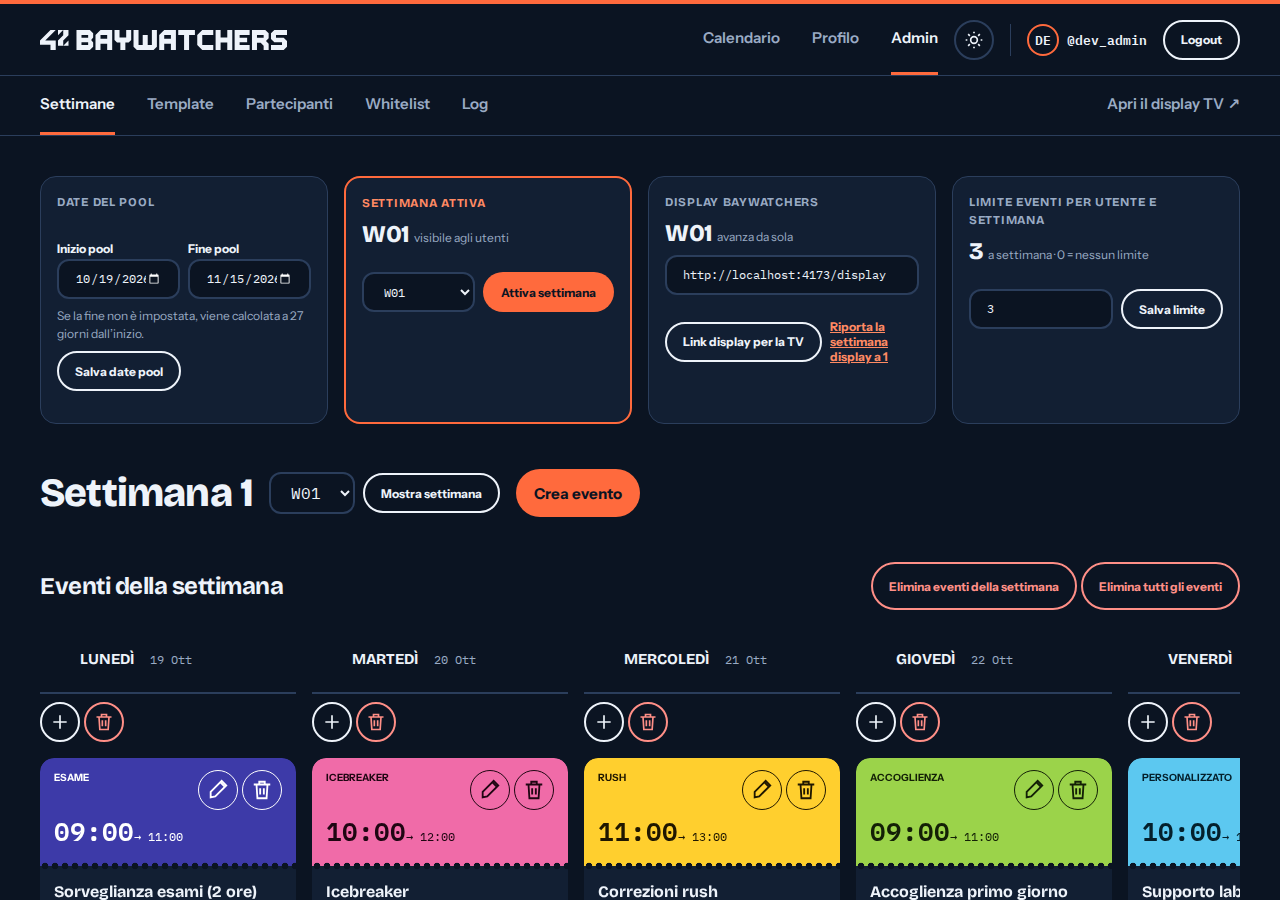
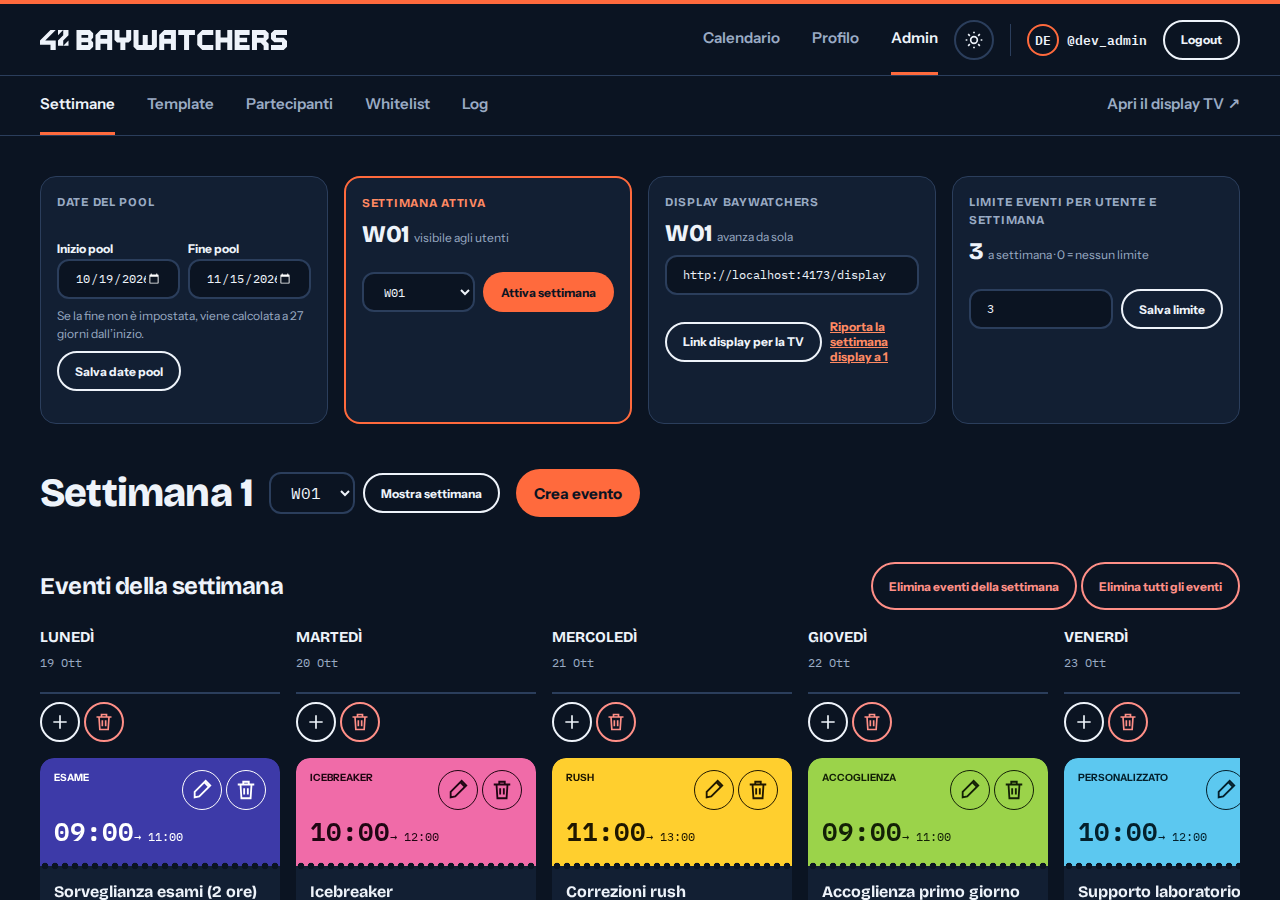
fix(design): address M14 review findings

diff --git a/tests/e2e/events.test.ts b/tests/e2e/events.test.ts
@@ -144,14 +144,14 @@ test(
 			});
 			const otherWeeks = await client`SELECT id FROM events WHERE week<>4 ORDER BY id`;
 			const tuesday = page.getByRole('group', { name: 'Martedì', exact: true });
-			await tuesday.getByRole('button', { name: 'Crea evento', exact: true }).click();
+			await tuesday.getByRole('button', { name: 'Crea evento per Martedì', exact: true }).click();
 			await expect(
 				page
 					.getByRole('dialog', { name: 'Crea evento', exact: true })
 					.getByLabel('Giorno', { exact: true })
 			).toHaveValue('2');
 			await page.getByRole('dialog').getByRole('button', { name: 'Annulla', exact: true }).click();
-			await tuesday.getByRole('button', { name: 'Elimina eventi del giorno', exact: true }).click();
+			await tuesday.getByRole('button', { name: 'Elimina eventi di Martedì', exact: true }).click();
 			await page.getByRole('dialog').getByRole('button', { name: 'Conferma eliminazione' }).click();
 			expect(
 				(await client`SELECT count(*)::int AS n FROM events WHERE week=4 AND weekday=2`)[0].n
@@ -231,6 +231,44 @@ test(
 		} finally {
 			await client`DELETE FROM events WHERE title=${title}`;
 			await context.close();
+		}
+	}
+);
+
+test(
+	'keeps errors and warnings after seven seconds while successes expire',
+	{ tag: '@shared-db' },
+	async ({ page }) => {
+		const title = `toast_${randomUUID().slice(0, 8)}`;
+		try {
+			await login(page.request);
+			await page.clock.install();
+			await page.goto('/admin?week=4');
+			await create(page, '');
+			const alert = page.getByRole('alert');
+			await expect(alert).toContainText('Dati non validi');
+			await page.clock.fastForward(7000);
+			await expect(alert).toBeVisible();
+			await alert.getByRole('button', { name: 'Chiudi messaggio', exact: true }).click();
+			await expect(alert).toHaveCount(0);
+
+			await page.goto('/admin/whitelist');
+			await page.getByLabel('Login da aggiungere').fill('dev_admin');
+			await page.getByRole('button', { name: 'Aggiungi alla whitelist', exact: true }).click();
+			const warning = page.getByRole('status').filter({ hasText: 'Già presenti:' });
+			await expect(warning).toBeVisible();
+			await page.clock.fastForward(7000);
+			await expect(warning).toBeVisible();
+
+			await page.goto('/admin?week=4');
+			await expect(page.getByRole('status')).toHaveCount(0);
+			await create(page, title);
+			await expect(page.getByRole('status')).toContainText('Evento creato');
+			await page.clock.fastForward(7000);
+			await expect(page.getByRole('status')).toHaveCount(0);
+		} finally {
+			await client`DELETE FROM action_logs WHERE resource_type='event' AND resource_id IN (SELECT id::text FROM events WHERE title=${title})`;
+			await client`DELETE FROM events WHERE title=${title}`;
 		}
 	}
 );

diff --git a/tests/e2e/design.test.ts b/tests/e2e/design.test.ts
@@ -37,7 +37,7 @@ test(
 				await page.setViewportSize({ width, height: 900 });
 				await page.goto('/');
 				// The landing is captured before authentication; later iterations use a fresh logged-out session.
-				const capture = async (name: string) => {
+				const capture = async (name: string, captureWidth = width) => {
 					await page.evaluate(() => {
 						window.scrollTo(0, 0);
 						return document.fonts.ready;
@@ -49,7 +49,7 @@ test(
 					).toBe(true);
 					// Playwright screenshots inject a style element that WebKit reports as a CSP violation.
 					if (browserName === 'webkit') return;
-					const filename = `${width}-${name}.png`;
+					const filename = `${captureWidth}-${name}.png`;
 					const location =
 						process.env.UPDATE_DESIGN_SCREENSHOTS === '1'
 							? path.join('docs/v2/design/implemented', theme, filename)
@@ -88,6 +88,44 @@ test(
 						}
 					}
 					await capture(name);
+					if (route === '/admin' && width === 1280) {
+						const grid = page.locator('.days-grid');
+						expect(
+							await grid.evaluate((element) => element.scrollWidth > element.clientWidth)
+						).toBe(true);
+						const rowsFit = await page.locator('.days-grid .ticket-body li').evaluateAll((rows) =>
+							rows.every((row) => {
+								const bounds = row.getBoundingClientRect();
+								return [...row.children].every((child) => {
+									const box = child.getBoundingClientRect();
+									return box.left >= bounds.left - 1 && box.right <= bounds.right + 1;
+								});
+							})
+						);
+						expect(rowsFit).toBe(true);
+						expect(
+							await page
+								.locator('.day-heading')
+								.evaluateAll((headers) =>
+									headers.every(
+										(header) =>
+											Math.abs(
+												header.getBoundingClientRect().left -
+													header.querySelector('h3')!.getBoundingClientRect().left
+											) < 1
+									)
+								)
+						).toBe(true);
+						await page.setViewportSize({ width: 1920, height: 900 });
+						// Screenshot animation cleanup can leave empty style attributes; capture a fresh document.
+						await page.reload();
+						expect(
+							await grid.evaluate((element) => element.scrollWidth === element.clientWidth)
+						).toBe(true);
+						await expect(page.locator('.day-group')).toHaveCount(7);
+						await capture(name, 1920);
+						await page.setViewportSize({ width, height: 900 });
+					}
 				}
 				await page.request.post('/auth/logout', {
 					headers: { origin: 'http://localhost:4173' },

diff --git a/src/routes/admin/+page.svelte b/src/routes/admin/+page.svelte
@@ -282,10 +282,18 @@
 						<span class="day-date">{data.dayDates[index] ?? m.admin_dates_unset()}</span>
 					</header>
 					<div class="day-actions">
-						<Dialog label={m.admin_create_event()} title={m.admin_create_event()} icon="add">
+						<Dialog
+							label={m.admin_create_event_day({ day: day() })}
+							title={m.admin_create_event()}
+							icon="add"
+						>
 							{@render createEventForm(`create-day-${index + 1}`, index + 1)}
 						</Dialog>
-						<Dialog label={m.admin_delete_day()} title={m.admin_confirm_delete_day()} icon="delete">
+						<Dialog
+							label={m.admin_delete_day_named({ day: day() })}
+							title={m.admin_confirm_delete_day()}
+							icon="delete"
+						>
 							{@render confirmDelete('deleteDayEvents', { week: data.week, weekday: index + 1 })}
 						</Dialog>
 					</div>
@@ -542,7 +550,7 @@
 	}
 	.days-grid {
 		display: grid;
-		grid-template-columns: repeat(7, minmax(var(--calendar-day-width), 1fr));
+		grid-template-columns: repeat(7, minmax(var(--admin-day-width), 1fr));
 		gap: var(--space-md);
 		overflow-x: auto;
 	}

diff --git a/src/routes/+layout.svelte b/src/routes/+layout.svelte
@@ -22,7 +22,7 @@
 <svelte:head><link rel="icon" href={asset('badge.png')} /></svelte:head>
 {#if page.route.id !== '/display'}
 	<a class="skip-link" href="#main">{m.app_skip_to_content()}</a>
-	<header class:access={page.route.id === '/'}>
+	<header class="site-header" class:access={page.route.id === '/'}>
 		<a class="brand" href={resolve('/')}><Logo /></a>
 
 		{#if data.user}
@@ -102,16 +102,16 @@
 	id="main"
 	class:authenticated={!!data.user}
 	class:display={page.route.id === '/display'}
-	class:calendar={page.route.id === '/calendar'}
+	class:calendar={page.route.id === '/calendar' || page.route.id === '/admin'}
 >
 	{#if page.route.id !== '/display'}<Toast {messages} />{/if}{@render children()}
 </main>
 
 <style>
-	header.access {
+	.site-header.access {
 		border-bottom: 0;
 	}
-	header.access .brand {
+	.site-header.access .brand {
 		visibility: hidden;
 	}
 	main.display,
@@ -184,7 +184,7 @@
 		.identity > span:last-child {
 			display: none;
 		}
-		header {
+		.site-header {
 			padding-inline: var(--space-md);
 			gap: var(--space-sm);
 		}

diff --git a/src/lib/styles/tokens.css b/src/lib/styles/tokens.css
@@ -75,6 +75,7 @@
 	--brand-bar: 4px; /* orange line at the top of every page */
 	--content-width: 85rem; /* 1360px */
 	--calendar-day-width: 16rem;
+	--admin-day-width: 15rem; /* 240px: seven admin columns fit at 1920 */
 	--logo-size: 20px; /* horizontal logo height in the header */
 	--profile-image-size: 3.5rem; /* 56px avatar in the profile aside */
 	--profile-aside-width: 17rem;

diff --git a/src/lib/styles/base.css b/src/lib/styles/base.css
@@ -59,7 +59,7 @@ a {
 .skip-link:focus {
 	transform: translateY(0);
 }
-header {
+.site-header {
 	display: flex;
 	align-items: center;
 	gap: var(--space-md);
@@ -199,7 +199,7 @@ pre {
 	main {
 		padding: var(--space-lg) var(--space-md);
 	}
-	header {
+	.site-header {
 		min-height: var(--header-mobile-height);
 		padding-inline: var(--space-md);
 		flex-wrap: nowrap;

diff --git a/src/lib/components/Toast.svelte b/src/lib/components/Toast.svelte
@@ -32,8 +32,10 @@
 	$effect(() => {
 		closed = [];
 		expired = messages.length === 0;
-		const timer = setTimeout(() => (expired = true), 6000);
-		return () => clearTimeout(timer);
+		if (messages.every((message) => message.type === 'success')) {
+			const timer = setTimeout(() => (expired = true), 6000);
+			return () => clearTimeout(timer);
+		}
 	});
 </script>
 

diff --git a/src/routes/admin/templates/+page.svelte b/src/routes/admin/templates/+page.svelte
@@ -153,11 +153,6 @@
 		justify-content: space-between;
 		align-items: start;
 		gap: var(--space-sm);
-		/* reset the global page header bar */
-		padding: 0;
-		min-height: 0;
-		background: none;
-		border: 0;
 	}
 	article h2 {
 		margin: 0;

diff --git a/docs/v2/SESSIONS.md b/docs/v2/SESSIONS.md
@@ -2019,3 +2019,25 @@ Spazio per istruzioni o risposte di Ismail all'agent (conferme di decisioni, pri
 
 **Prossimo passo**
 - Attendere indicazioni di Ismail per M15. Nessuna eliminazione della cartella legacy senza conferma scritta.
+
+
+## 2026-10-23 — M14 post-review — correzioni completate, verifica CI dopo il push
+
+**Fatto**
+- Calendario a tutta larghezza anche per la sola pagina /admin. Variante autorizzata: nuovo token --admin-day-width: 15rem (240 px) per le sette colonne admin; --calendar-day-width e calendario utenti invariati. Sette giorni senza scorrimento a 1920 px; a 1280 scorrimento soltanto dentro days-grid, righe dei partecipanti contenute nelle card.
+- Header globale circoscritto a site-header, incluse regole responsive/accesso; rimosso il reset superfluo dalle card template. Intestazioni dei giorni allineate alle colonne.
+- Toast: timer di 6 secondi soltanto se tutti i messaggi sono successi; errori e avvisi persistono fino alla chiusura o navigazione. Nuovo e2e con page.clock verifica permanenza dopo 7 secondi, chiusura, navigazione e scadenza dei successi.
+- Nomi accessibili distinti per giorno tramite admin_create_event_day e admin_delete_day_named; pulsante principale e titoli dei dialog invariati, selettori e2e aggiornati per Martedì.
+- Eliminati i file locali non tracciati M14-RIPRESA-TEMP.md e w.png. Nessuna modifica a query, action, dipendenze, migrazioni, legacy o Stato dei moduli; M15 non iniziato.
+
+**Controlli**
+- corepack pnpm ci:local exit 0: 186 unit, 277 integration e 124 e2e (587 totali); lint/check/build verdi, check zero errori e warning. Chromium desktop/mobile e WebKit verdi, inclusi layout, dialog con/senza JS e nuovi controlli sui messaggi.
+- Galleria rigenerata, test 1/1 verde: 62 immagini nei due temi, comprese admin a 1920 px. Header del sito pixel-identico a 360/768/1280 nei due temi; sei immagini template byte-identiche a e64f3fd. Verificati assenza di overflow della pagina, intestazioni allineate e contenimento dei partecipanti nelle colonne da 240 px.
+- git diff --check verde; immagine Docker ricostruita, stack completo su 8080/8443 con app/Postgres healthy. Smoke con CA locale: landing/health 200, admin anonimo 303, redirect HTTP 308 con percorso/query preservati; nessun volume eliminato.
+- CI GitHub: da verificare dopo il push dell'unico commit richiesto, tramite gh run watch --exit-status; esito nel rapporto finale e nella run associata al commit.
+
+**Domande / blocchi**
+- Nessuno. L'unica variante rispetto alle istruzioni iniziali, colonne admin da 240 px, è stata autorizzata esplicitamente prima di applicarla.
+
+**Prossimo passo**
+- Verificare tutti i sei job CI dopo il push e fermarsi; stato M14 invariato, M15 in attesa di Ismail.

diff --git a/docs/v2/design/implemented/README.md b/docs/v2/design/implemented/README.md
@@ -4,6 +4,7 @@ Galleria dell'app SvelteKit da confrontare con le schermate approvate in `../scr
 
 - `dark/` e `light/`: una cartella per tema.
 - Nome: `<larghezza>-<pagina>.png`, a 360, 768 e 1280 px; viewport alta 900 px.
+- Admin Settimane include anche lo screenshot a 1920 px con sette colonne senza scorrimento.
 - Pagine: `accesso`, `calendario`, `profilo`, `display`, `admin-settimana`, `admin-template`,
   `admin-nuovo-template`, `admin-partecipanti`, `admin-whitelist`, `admin-log`.
 
@@ -24,7 +25,7 @@ relative al giorno di esecuzione: contenuti, eventi conclusi e indicazione di og
 
 - Il calendario utenti usa tutta la larghezza disponibile, con il padding laterale del layout.
 - Admin Settimane conserva in alto i quattro riquadri impostazioni e mostra sotto sette colonne
-  di biglietti verticali, con scorrimento orizzontale confinato alla griglia. Su mobile i giorni
+  di biglietti verticali (minimo 240 px ciascuna), con scorrimento orizzontale confinato alla griglia. Su mobile i giorni
   sono impilati. Creazione e modifica avvengono nei dialog; il pulsante di ogni giorno preimposta
   il giorno anche senza JavaScript. Gli iscritti restano visibili nei biglietti.
 - I messaggi compaiono in basso a destra, sopra la navigazione mobile e il footer del builder.
